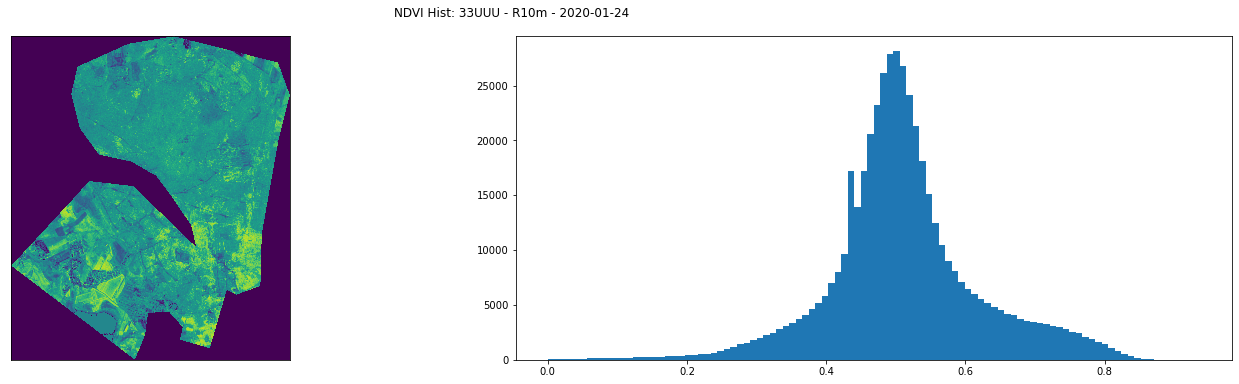
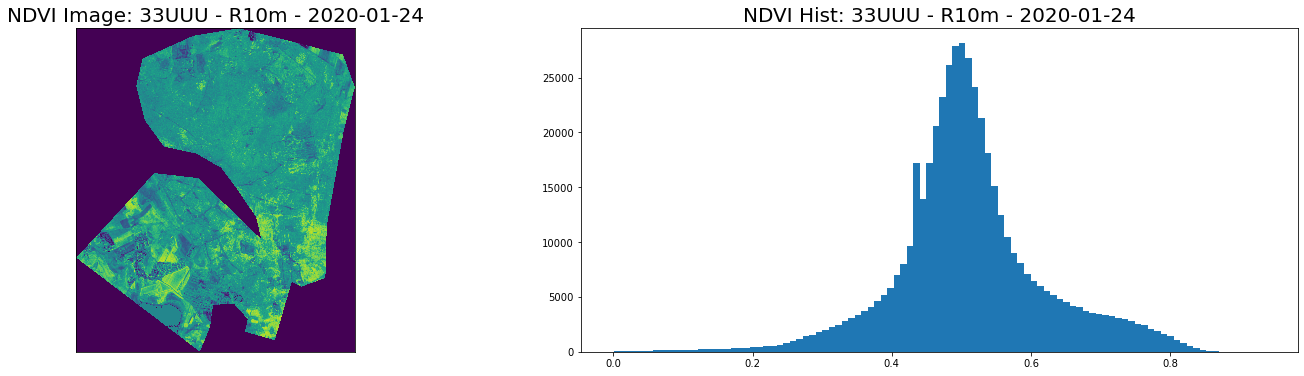
Changed title fontsize and locations;  and subsequence README images

diff --git a/kmeans_ndvi/utils.py b/kmeans_ndvi/utils.py
@@ -368,7 +368,10 @@ def sanity_check_ndvi_statistics(
     # Sanity Check with imshow
     fig, (ax1, ax2) = plt.subplots(ncols=2, figsize=(20, 5))
     ax1.imshow(image, interpolation='None')
-    fig.suptitle(f"NDVI Image: {scene_id} - {res} - {date}")
+    ax1.set_title(
+        f"NDVI Image: {scene_id} - {res} - {date}",
+        fontsize=20
+    )
 
     # Remove all unnecessary markers from figure
     ax1.grid(False)  # remove grid for images
@@ -386,7 +389,10 @@ def sanity_check_ndvi_statistics(
         wspace=1e-2
     )
 
-    fig.suptitle(f"NDVI Hist: {scene_id} - {res} - {date}")
+    ax2.set_title(
+        f"NDVI Hist: {scene_id} - {res} - {date}",
+        fontsize=20
+    )
 
     if plot_now:
         plt.show()
@@ -442,7 +448,9 @@ def sanity_check_spatial_kmeans(kmeans, image, quantile_range=(1, 99),
 
     # Set title for entire figure
     fig.suptitle(
-        f"Spatial K-Means Reconstruction: {scene_id} - {res} - {date}")
+        f"Spatial K-Means Reconstruction: {scene_id} - {res} - {date}",
+        fontsize=20
+    )
 
     if plot_now:
         # User can override default behaviour and plot on-the-fly
@@ -514,7 +522,10 @@ def sanity_check_temporal_kmeans(
     )
 
     # Set title for entire figure
-    fig.suptitle(f"Temporal K-Means Reconstruction: {scene_id} - {res}")
+    fig.suptitle(
+        f"Temporal K-Means Reconstruction: {scene_id} - {res}",
+        fontsize=20
+    )
 
     if plot_now:
         # User can override default behaviour and plot on-the-fly
